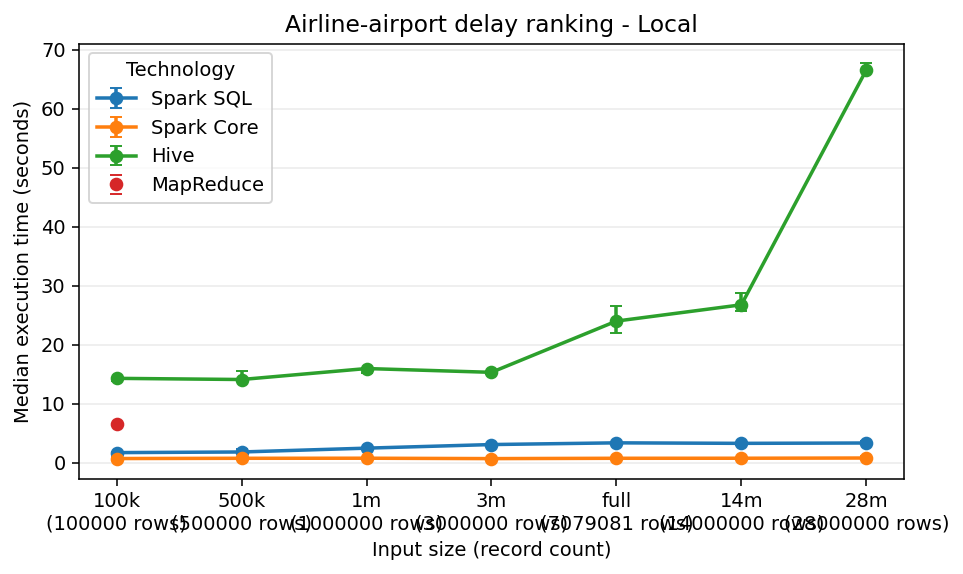
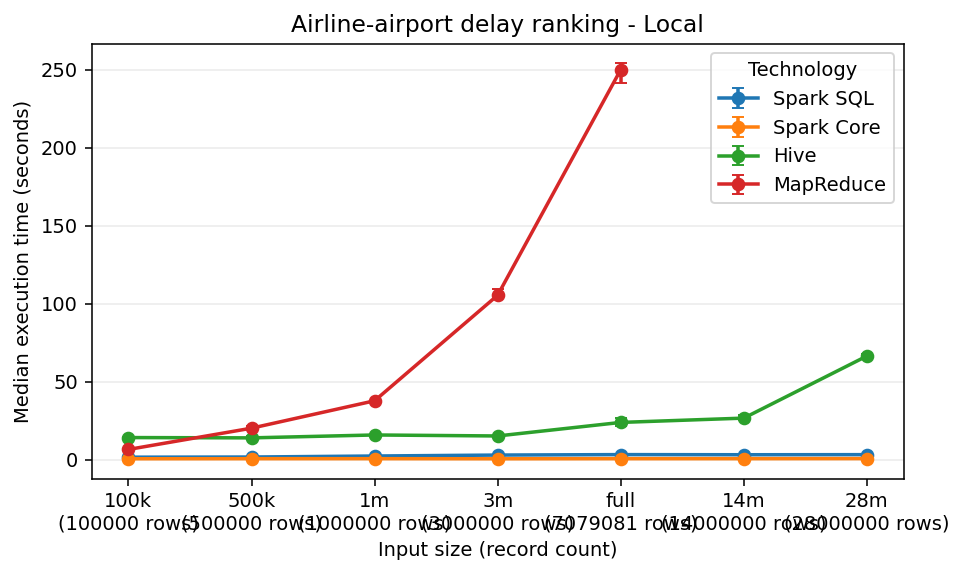
Expand MapReduce stretch benchmark evidence
Run MapReduce stretch benchmarks across 100k, 500k, 1m, 3m, and full inputs with three repetitions, regenerate report artifacts, and update documentation/report wording to keep MapReduce framed as optional stretch evidence outside the Spark SQL/Spark Core/Hive baseline.

diff --git a/report/draft_final_report.md b/report/draft_final_report.md
@@ -341,11 +341,11 @@ The delay reducer computes the same grouped counts, averages, and top-three
 cause ordering as Spark SQL. The ranking reducer groups by airport, aggregates
 airline statistics, computes the airport average departure delay, and applies
 Spark SQL `RANK()` semantics with null averages last. Validation passed against
-Spark SQL for the full prepared dataset; the separate benchmark smoke run uses
-the `100k` generated input.
+Spark SQL for the full prepared dataset; the separate benchmark campaign uses
+the `100k`, `500k`, `1m`, `3m`, and `full` inputs as optional stretch evidence.
 
 The supported runtime is Docker-local Hadoop Streaming, not YARN/HDFS.
-Benchmark smoke runs use isolated output roots under
+MapReduce benchmark runs use isolated output roots under
 `outputs/mapreduce/.benchmark_runs/`, leaving `outputs/mapreduce/` reserved for
 validated report-ready outputs.
 
@@ -416,8 +416,8 @@ The reporting pipeline computes median, mean, minimum, maximum, and standard
 deviation of duration for each environment/input/job/technology group.
 Single-run CSVs are still readable as `runs=1`, and fresh benchmark campaigns
 can be forced to one run for smoke checks with `BENCHMARK_FLAGS="--repetitions
-1"`. The opt-in MapReduce benchmark smoke lets the stretch evidence be
-included without slowing the required default benchmark matrix:
+1"`. The opt-in MapReduce stretch benchmark is reported separately from the
+required default benchmark matrix:
 
 | Environment | Inputs | Technologies | Jobs | Status |
 | --- | --- | --- | --- | --- |
@@ -426,11 +426,11 @@ included without slowing the required default benchmark matrix:
 | Docker standalone simulation | `100k`, `500k`, `1m` | Spark SQL, Spark Core, Hive | both jobs | 18/18 successful |
 | AWS EMR baseline cluster | `100k`, `500k`, `1m`, `3m`, `full`, `14m` | Spark SQL, Spark Core | both jobs | 24/24 successful |
 | AWS EMR larger cluster | `1m`, `full` | Spark SQL, Spark Core | both jobs | 8/8 successful |
-| Local stretch | `100k` | Hadoop Streaming MapReduce | both jobs | 2/2 successful |
+| Local stretch | `100k`, `500k`, `1m`, `3m`, `full` | Hadoop Streaming MapReduce | both jobs | 10/10 successful, 3 repetitions each |
 
 The local run ID is `20260521T153035251181Z`. The Docker standalone simulation
-run ID is `20260521T160042313560Z`. The MapReduce smoke run ID is
-`20260521T153912538439Z`. The local `14m` run ID is
+run ID is `20260521T160042313560Z`. The MapReduce stretch benchmark run ID is
+`20260522T182250129354Z`. The local `14m` run ID is
 `20260521T220744784794Z`. The canonical AWS EMR baseline run ID is
 `m4-emr-final-2`, and the limited larger-cluster comparison run ID is
 `m5-emr-3core-1m-full`. Some local and Docker campaigns are represented as
@@ -443,7 +443,7 @@ for `500k`, `3m`, and `14m`, and a separate hardened smoke record for the
 
 For compactness, the printed pivot below focuses on median duration for the
 three required technologies. The regenerated `report/tables/benchmark_pivot.*`
-artifacts also include the optional MapReduce smoke columns when present.
+artifacts also include the optional MapReduce stretch columns when present.
 
 | environment | input_label | records | job_name | Spark SQL median s | Spark Core median s | Hive median s |
 | --- | --- | --- | --- | --- | --- | --- |
@@ -1048,7 +1048,8 @@ numeric fields, rank values, and top-three cause labels/counts.
 | Validator | `scripts/validate_mapreduce_outputs.py` |
 | Runtime documentation | `docs/mapreduce_analyses.md` |
 
-The MapReduce benchmark smoke run on `100k` input completed both jobs
-successfully using isolated benchmark outputs. The benchmark rows are included
-in generated report tables when present, but missing MapReduce cells are not
-added to the required Spark/Hive/Spark Core benchmark status matrix.
+The MapReduce stretch benchmark completed `100k`, `500k`, `1m`, `3m`, and
+`full` inputs with three repetitions per input/job using isolated benchmark
+outputs. These rows are included in generated report tables when present, but
+missing MapReduce cells are not added to the required Spark/Hive/Spark Core
+benchmark status matrix.

diff --git a/report/tables/benchmark_pivot.md b/report/tables/benchmark_pivot.md
@@ -22,16 +22,16 @@
 | docker-simulation | 500k | 500000 | delay_by_airport_month | 25.606 | 7.256 | 28.206 |  |
 | docker-simulation | 1m | 1000000 | airline_airport_ranking | 5.869 | 3.044 | 10.094 |  |
 | docker-simulation | 1m | 1000000 | delay_by_airport_month | 14.541 | 3.673 | 16.797 |  |
-| local | 100k | 100000 | airline_airport_ranking | 1.744 | 0.74 | 14.322 | 6.551 |
-| local | 100k | 100000 | delay_by_airport_month | 7.966 | 1.002 | 19.841 | 7.49 |
-| local | 500k | 500000 | airline_airport_ranking | 1.853 | 0.783 | 14.125 |  |
-| local | 500k | 500000 | delay_by_airport_month | 8.675 | 1.122 | 21.005 |  |
-| local | 1m | 1000000 | airline_airport_ranking | 2.5 | 0.796 | 15.984 |  |
-| local | 1m | 1000000 | delay_by_airport_month | 12.181 | 1.195 | 22.411 |  |
-| local | 3m | 3000000 | airline_airport_ranking | 3.11 | 0.73 | 15.341 |  |
-| local | 3m | 3000000 | delay_by_airport_month | 13.09 | 1.126 | 25.069 |  |
-| local | full | 7079081 | airline_airport_ranking | 3.4 | 0.785 | 24.02 |  |
-| local | full | 7079081 | delay_by_airport_month | 12.997 | 1.221 | 35.005 |  |
+| local | 100k | 100000 | airline_airport_ranking | 1.744 | 0.74 | 14.322 | 6.708 |
+| local | 100k | 100000 | delay_by_airport_month | 7.966 | 1.002 | 19.841 | 7.644 |
+| local | 500k | 500000 | airline_airport_ranking | 1.853 | 0.783 | 14.125 | 20.328 |
+| local | 500k | 500000 | delay_by_airport_month | 8.675 | 1.122 | 21.005 | 23.3 |
+| local | 1m | 1000000 | airline_airport_ranking | 2.5 | 0.796 | 15.984 | 37.887 |
+| local | 1m | 1000000 | delay_by_airport_month | 12.181 | 1.195 | 22.411 | 40.762 |
+| local | 3m | 3000000 | airline_airport_ranking | 3.11 | 0.73 | 15.341 | 105.491 |
+| local | 3m | 3000000 | delay_by_airport_month | 13.09 | 1.126 | 25.069 | 116.11 |
+| local | full | 7079081 | airline_airport_ranking | 3.4 | 0.785 | 24.02 | 249.968 |
+| local | full | 7079081 | delay_by_airport_month | 12.997 | 1.221 | 35.005 | 267.284 |
 | local | 14m | 14000000 | airline_airport_ranking | 3.314 | 0.792 | 26.78 |  |
 | local | 14m | 14000000 | delay_by_airport_month | 11.868 | 1.223 | 41.112 |  |
 | local | 28m | 28000000 | airline_airport_ranking | 3.373 | 0.83 | 66.541 |  |

diff --git a/report/tables/benchmark_status.md b/report/tables/benchmark_status.md
@@ -51,35 +51,43 @@
 | docker-simulation | 1m | 1000000 | delay_by_airport_month | Spark Core | success | 3.829174 | 10206 |  | 20260522T161751426398Z | 2026-05-22T16:17:51.426398+00:00 | benchmark_20260522T161751426398Z.csv |
 | docker-simulation | 1m | 1000000 | delay_by_airport_month | Spark SQL | success | 14.540799 | 10206 |  | 20260522T161751426398Z | 2026-05-22T16:17:51.426398+00:00 | benchmark_20260522T161751426398Z.csv |
 | local | 100k | 100000 | airline_airport_ranking | Hive | success | 13.910368 | 1641 |  | 20260522T133525179005Z | 2026-05-22T13:35:25.179005+00:00 | benchmark_20260522T133525179005Z.csv |
-| local | 100k | 100000 | airline_airport_ranking | MapReduce | success | 6.550597 | 1641 |  | 20260521T153912538439Z | 2026-05-21T15:39:12.538439+00:00 | benchmark_20260521T153912538439Z.csv |
+| local | 100k | 100000 | airline_airport_ranking | MapReduce | success | 6.708246 | 1641 |  | 20260522T182250129354Z | 2026-05-22T18:22:50.129354+00:00 | benchmark_20260522T182250129354Z.csv |
 | local | 100k | 100000 | airline_airport_ranking | Spark Core | success | 0.960478 | 1641 |  | 20260522T133525179005Z | 2026-05-22T13:35:25.179005+00:00 | benchmark_20260522T133525179005Z.csv |
 | local | 100k | 100000 | airline_airport_ranking | Spark SQL | success | 1.74436 | 1641 |  | 20260522T133525179005Z | 2026-05-22T13:35:25.179005+00:00 | benchmark_20260522T133525179005Z.csv |
 | local | 100k | 100000 | delay_by_airport_month | Hive | success | 19.594788 | 6367 |  | 20260522T133525179005Z | 2026-05-22T13:35:25.179005+00:00 | benchmark_20260522T133525179005Z.csv |
-| local | 100k | 100000 | delay_by_airport_month | MapReduce | success | 7.490445 | 6367 |  | 20260521T153912538439Z | 2026-05-21T15:39:12.538439+00:00 | benchmark_20260521T153912538439Z.csv |
+| local | 100k | 100000 | delay_by_airport_month | MapReduce | success | 7.64389 | 6367 |  | 20260522T182250129354Z | 2026-05-22T18:22:50.129354+00:00 | benchmark_20260522T182250129354Z.csv |
 | local | 100k | 100000 | delay_by_airport_month | Spark Core | success | 1.35415 | 6367 |  | 20260522T133525179005Z | 2026-05-22T13:35:25.179005+00:00 | benchmark_20260522T133525179005Z.csv |
 | local | 100k | 100000 | delay_by_airport_month | Spark SQL | success | 7.927306 | 6367 |  | 20260522T133525179005Z | 2026-05-22T13:35:25.179005+00:00 | benchmark_20260522T133525179005Z.csv |
 | local | 500k | 500000 | airline_airport_ranking | Hive | success | 15.56281 | 1707 |  | 20260522T133525179005Z | 2026-05-22T13:35:25.179005+00:00 | benchmark_20260522T133525179005Z.csv |
+| local | 500k | 500000 | airline_airport_ranking | MapReduce | success | 20.327809 | 1707 |  | 20260522T182250129354Z | 2026-05-22T18:22:50.129354+00:00 | benchmark_20260522T182250129354Z.csv |
 | local | 500k | 500000 | airline_airport_ranking | Spark Core | success | 0.689851 | 1707 |  | 20260522T133525179005Z | 2026-05-22T13:35:25.179005+00:00 | benchmark_20260522T133525179005Z.csv |
 | local | 500k | 500000 | airline_airport_ranking | Spark SQL | success | 1.852542 | 1707 |  | 20260522T133525179005Z | 2026-05-22T13:35:25.179005+00:00 | benchmark_20260522T133525179005Z.csv |
 | local | 500k | 500000 | delay_by_airport_month | Hive | success | 21.961934 | 9265 |  | 20260522T133525179005Z | 2026-05-22T13:35:25.179005+00:00 | benchmark_20260522T133525179005Z.csv |
+| local | 500k | 500000 | delay_by_airport_month | MapReduce | success | 23.256457 | 9265 |  | 20260522T182250129354Z | 2026-05-22T18:22:50.129354+00:00 | benchmark_20260522T182250129354Z.csv |
 | local | 500k | 500000 | delay_by_airport_month | Spark Core | success | 1.12204 | 9265 |  | 20260522T133525179005Z | 2026-05-22T13:35:25.179005+00:00 | benchmark_20260522T133525179005Z.csv |
 | local | 500k | 500000 | delay_by_airport_month | Spark SQL | success | 8.674959 | 9265 |  | 20260522T133525179005Z | 2026-05-22T13:35:25.179005+00:00 | benchmark_20260522T133525179005Z.csv |
 | local | 1m | 1000000 | airline_airport_ranking | Hive | success | 15.983799 | 1723 |  | 20260522T133525179005Z | 2026-05-22T13:35:25.179005+00:00 | benchmark_20260522T133525179005Z.csv |
+| local | 1m | 1000000 | airline_airport_ranking | MapReduce | success | 37.886627 | 1723 |  | 20260522T182250129354Z | 2026-05-22T18:22:50.129354+00:00 | benchmark_20260522T182250129354Z.csv |
 | local | 1m | 1000000 | airline_airport_ranking | Spark Core | success | 0.78 | 1723 |  | 20260522T133525179005Z | 2026-05-22T13:35:25.179005+00:00 | benchmark_20260522T133525179005Z.csv |
 | local | 1m | 1000000 | airline_airport_ranking | Spark SQL | success | 2.500201 | 1723 |  | 20260522T133525179005Z | 2026-05-22T13:35:25.179005+00:00 | benchmark_20260522T133525179005Z.csv |
 | local | 1m | 1000000 | delay_by_airport_month | Hive | success | 22.411059 | 10206 |  | 20260522T133525179005Z | 2026-05-22T13:35:25.179005+00:00 | benchmark_20260522T133525179005Z.csv |
+| local | 1m | 1000000 | delay_by_airport_month | MapReduce | success | 38.838454 | 10206 |  | 20260522T182250129354Z | 2026-05-22T18:22:50.129354+00:00 | benchmark_20260522T182250129354Z.csv |
 | local | 1m | 1000000 | delay_by_airport_month | Spark Core | success | 1.172473 | 10206 |  | 20260522T133525179005Z | 2026-05-22T13:35:25.179005+00:00 | benchmark_20260522T133525179005Z.csv |
 | local | 1m | 1000000 | delay_by_airport_month | Spark SQL | success | 11.704785 | 10206 |  | 20260522T133525179005Z | 2026-05-22T13:35:25.179005+00:00 | benchmark_20260522T133525179005Z.csv |
 | local | 3m | 3000000 | airline_airport_ranking | Hive | success | 15.004577 | 1735 |  | 20260522T133525179005Z | 2026-05-22T13:35:25.179005+00:00 | benchmark_20260522T133525179005Z.csv |
+| local | 3m | 3000000 | airline_airport_ranking | MapReduce | success | 105.490861 | 1735 |  | 20260522T182250129354Z | 2026-05-22T18:22:50.129354+00:00 | benchmark_20260522T182250129354Z.csv |
 | local | 3m | 3000000 | airline_airport_ranking | Spark Core | success | 0.729875 | 1735 |  | 20260522T133525179005Z | 2026-05-22T13:35:25.179005+00:00 | benchmark_20260522T133525179005Z.csv |
 | local | 3m | 3000000 | airline_airport_ranking | Spark SQL | success | 2.849642 | 1735 |  | 20260522T133525179005Z | 2026-05-22T13:35:25.179005+00:00 | benchmark_20260522T133525179005Z.csv |
 | local | 3m | 3000000 | delay_by_airport_month | Hive | success | 25.068832 | 11417 |  | 20260522T133525179005Z | 2026-05-22T13:35:25.179005+00:00 | benchmark_20260522T133525179005Z.csv |
+| local | 3m | 3000000 | delay_by_airport_month | MapReduce | success | 116.109869 | 11417 |  | 20260522T182250129354Z | 2026-05-22T18:22:50.129354+00:00 | benchmark_20260522T182250129354Z.csv |
 | local | 3m | 3000000 | delay_by_airport_month | Spark Core | success | 1.191845 | 11417 |  | 20260522T133525179005Z | 2026-05-22T13:35:25.179005+00:00 | benchmark_20260522T133525179005Z.csv |
 | local | 3m | 3000000 | delay_by_airport_month | Spark SQL | success | 13.057866 | 11417 |  | 20260522T133525179005Z | 2026-05-22T13:35:25.179005+00:00 | benchmark_20260522T133525179005Z.csv |
 | local | full | 7079081 | airline_airport_ranking | Hive | success | 26.632626 | 1738 |  | 20260522T133525179005Z | 2026-05-22T13:35:25.179005+00:00 | benchmark_20260522T133525179005Z.csv |
+| local | full | 7079081 | airline_airport_ranking | MapReduce | success | 253.987902 | 1738 |  | 20260522T182250129354Z | 2026-05-22T18:22:50.129354+00:00 | benchmark_20260522T182250129354Z.csv |
 | local | full | 7079081 | airline_airport_ranking | Spark Core | success | 0.789088 | 1738 |  | 20260522T133525179005Z | 2026-05-22T13:35:25.179005+00:00 | benchmark_20260522T133525179005Z.csv |
 | local | full | 7079081 | airline_airport_ranking | Spark SQL | success | 3.39957 | 1738 |  | 20260522T133525179005Z | 2026-05-22T13:35:25.179005+00:00 | benchmark_20260522T133525179005Z.csv |
 | local | full | 7079081 | delay_by_airport_month | Hive | success | 32.788066 | 11902 |  | 20260522T133525179005Z | 2026-05-22T13:35:25.179005+00:00 | benchmark_20260522T133525179005Z.csv |
+| local | full | 7079081 | delay_by_airport_month | MapReduce | success | 265.23782 | 11902 |  | 20260522T182250129354Z | 2026-05-22T18:22:50.129354+00:00 | benchmark_20260522T182250129354Z.csv |
 | local | full | 7079081 | delay_by_airport_month | Spark Core | success | 1.228729 | 11902 |  | 20260522T133525179005Z | 2026-05-22T13:35:25.179005+00:00 | benchmark_20260522T133525179005Z.csv |
 | local | full | 7079081 | delay_by_airport_month | Spark SQL | success | 12.997052 | 11902 |  | 20260522T133525179005Z | 2026-05-22T13:35:25.179005+00:00 | benchmark_20260522T133525179005Z.csv |
 | local | 14m | 14000000 | airline_airport_ranking | Hive | success | 25.701671 | 1738 |  | 20260522T142052973274Z | 2026-05-22T14:20:52.973274+00:00 | benchmark_20260522T142052973274Z.csv |

diff --git a/report/tables/benchmark_summary.md b/report/tables/benchmark_summary.md
@@ -51,35 +51,43 @@
 | docker-simulation | 1m | 1000000 | delay_by_airport_month | Spark Core | 3 | 3.673 | 3.653 | 3.457 | 3.829 | 0.187 | 10206 | 20260522T161751426398Z | 2026-05-22T16:17:51.426398+00:00 |
 | docker-simulation | 1m | 1000000 | delay_by_airport_month | Spark SQL | 3 | 14.541 | 14.559 | 14.242 | 14.895 | 0.327 | 10206 | 20260522T161751426398Z | 2026-05-22T16:17:51.426398+00:00 |
 | local | 100k | 100000 | airline_airport_ranking | Hive | 3 | 14.322 | 14.207 | 13.91 | 14.389 | 0.259 | 1641 | 20260522T133525179005Z | 2026-05-22T13:35:25.179005+00:00 |
-| local | 100k | 100000 | airline_airport_ranking | MapReduce | 1 | 6.551 | 6.551 | 6.551 | 6.551 |  | 1641 | 20260521T153912538439Z | 2026-05-21T15:39:12.538439+00:00 |
+| local | 100k | 100000 | airline_airport_ranking | MapReduce | 3 | 6.708 | 6.705 | 6.693 | 6.713 | 0.01 | 1641 | 20260522T182250129354Z | 2026-05-22T18:22:50.129354+00:00 |
 | local | 100k | 100000 | airline_airport_ranking | Spark Core | 3 | 0.74 | 0.807 | 0.719 | 0.96 | 0.134 | 1641 | 20260522T133525179005Z | 2026-05-22T13:35:25.179005+00:00 |
 | local | 100k | 100000 | airline_airport_ranking | Spark SQL | 3 | 1.744 | 1.702 | 1.556 | 1.805 | 0.13 | 1641 | 20260522T133525179005Z | 2026-05-22T13:35:25.179005+00:00 |
 | local | 100k | 100000 | delay_by_airport_month | Hive | 3 | 19.841 | 20.207 | 19.595 | 21.187 | 0.857 | 6367 | 20260522T133525179005Z | 2026-05-22T13:35:25.179005+00:00 |
-| local | 100k | 100000 | delay_by_airport_month | MapReduce | 1 | 7.49 | 7.49 | 7.49 | 7.49 |  | 6367 | 20260521T153912538439Z | 2026-05-21T15:39:12.538439+00:00 |
+| local | 100k | 100000 | delay_by_airport_month | MapReduce | 3 | 7.644 | 7.306 | 6.623 | 7.65 | 0.591 | 6367 | 20260522T182250129354Z | 2026-05-22T18:22:50.129354+00:00 |
 | local | 100k | 100000 | delay_by_airport_month | Spark Core | 3 | 1.002 | 1.117 | 0.996 | 1.354 | 0.205 | 6367 | 20260522T133525179005Z | 2026-05-22T13:35:25.179005+00:00 |
 | local | 100k | 100000 | delay_by_airport_month | Spark SQL | 3 | 7.966 | 8.011 | 7.927 | 8.139 | 0.113 | 6367 | 20260522T133525179005Z | 2026-05-22T13:35:25.179005+00:00 |
 | local | 500k | 500000 | airline_airport_ranking | Hive | 3 | 14.125 | 14.602 | 14.117 | 15.563 | 0.832 | 1707 | 20260522T133525179005Z | 2026-05-22T13:35:25.179005+00:00 |
+| local | 500k | 500000 | airline_airport_ranking | MapReduce | 3 | 20.328 | 20.366 | 19.337 | 21.433 | 1.048 | 1707 | 20260522T182250129354Z | 2026-05-22T18:22:50.129354+00:00 |
 | local | 500k | 500000 | airline_airport_ranking | Spark Core | 3 | 0.783 | 0.775 | 0.69 | 0.85 | 0.081 | 1707 | 20260522T133525179005Z | 2026-05-22T13:35:25.179005+00:00 |
 | local | 500k | 500000 | airline_airport_ranking | Spark SQL | 3 | 1.853 | 1.99 | 1.76 | 2.359 | 0.322 | 1707 | 20260522T133525179005Z | 2026-05-22T13:35:25.179005+00:00 |
 | local | 500k | 500000 | delay_by_airport_month | Hive | 3 | 21.005 | 21.178 | 20.566 | 21.962 | 0.714 | 9265 | 20260522T133525179005Z | 2026-05-22T13:35:25.179005+00:00 |
+| local | 500k | 500000 | delay_by_airport_month | MapReduce | 3 | 23.3 | 23.286 | 23.256 | 23.302 | 0.026 | 9265 | 20260522T182250129354Z | 2026-05-22T18:22:50.129354+00:00 |
 | local | 500k | 500000 | delay_by_airport_month | Spark Core | 3 | 1.122 | 1.166 | 1.059 | 1.317 | 0.134 | 9265 | 20260522T133525179005Z | 2026-05-22T13:35:25.179005+00:00 |
 | local | 500k | 500000 | delay_by_airport_month | Spark SQL | 3 | 8.675 | 8.604 | 8.432 | 8.704 | 0.15 | 9265 | 20260522T133525179005Z | 2026-05-22T13:35:25.179005+00:00 |
 | local | 1m | 1000000 | airline_airport_ranking | Hive | 3 | 15.984 | 15.761 | 15.291 | 16.007 | 0.407 | 1723 | 20260522T133525179005Z | 2026-05-22T13:35:25.179005+00:00 |
+| local | 1m | 1000000 | airline_airport_ranking | MapReduce | 3 | 37.887 | 37.606 | 36.916 | 38.016 | 0.601 | 1723 | 20260522T182250129354Z | 2026-05-22T18:22:50.129354+00:00 |
 | local | 1m | 1000000 | airline_airport_ranking | Spark Core | 3 | 0.796 | 0.814 | 0.78 | 0.867 | 0.046 | 1723 | 20260522T133525179005Z | 2026-05-22T13:35:25.179005+00:00 |
 | local | 1m | 1000000 | airline_airport_ranking | Spark SQL | 3 | 2.5 | 2.483 | 2.406 | 2.542 | 0.07 | 1723 | 20260522T133525179005Z | 2026-05-22T13:35:25.179005+00:00 |
 | local | 1m | 1000000 | delay_by_airport_month | Hive | 3 | 22.411 | 22.38 | 22.087 | 22.642 | 0.279 | 10206 | 20260522T133525179005Z | 2026-05-22T13:35:25.179005+00:00 |
+| local | 1m | 1000000 | delay_by_airport_month | MapReduce | 3 | 40.762 | 40.156 | 38.838 | 40.867 | 1.142 | 10206 | 20260522T182250129354Z | 2026-05-22T18:22:50.129354+00:00 |
 | local | 1m | 1000000 | delay_by_airport_month | Spark Core | 3 | 1.195 | 1.211 | 1.172 | 1.265 | 0.048 | 10206 | 20260522T133525179005Z | 2026-05-22T13:35:25.179005+00:00 |
 | local | 1m | 1000000 | delay_by_airport_month | Spark SQL | 3 | 12.181 | 12.249 | 11.705 | 12.861 | 0.581 | 10206 | 20260522T133525179005Z | 2026-05-22T13:35:25.179005+00:00 |
 | local | 3m | 3000000 | airline_airport_ranking | Hive | 3 | 15.341 | 15.246 | 15.005 | 15.391 | 0.21 | 1735 | 20260522T133525179005Z | 2026-05-22T13:35:25.179005+00:00 |
+| local | 3m | 3000000 | airline_airport_ranking | MapReduce | 3 | 105.491 | 106.612 | 105.03 | 109.316 | 2.353 | 1735 | 20260522T182250129354Z | 2026-05-22T18:22:50.129354+00:00 |
 | local | 3m | 3000000 | airline_airport_ranking | Spark Core | 3 | 0.73 | 0.753 | 0.729 | 0.799 | 0.04 | 1735 | 20260522T133525179005Z | 2026-05-22T13:35:25.179005+00:00 |
 | local | 3m | 3000000 | airline_airport_ranking | Spark SQL | 3 | 3.11 | 3.065 | 2.85 | 3.237 | 0.197 | 1735 | 20260522T133525179005Z | 2026-05-22T13:35:25.179005+00:00 |
 | local | 3m | 3000000 | delay_by_airport_month | Hive | 3 | 25.069 | 25.134 | 24.998 | 25.335 | 0.178 | 11417 | 20260522T133525179005Z | 2026-05-22T13:35:25.179005+00:00 |
+| local | 3m | 3000000 | delay_by_airport_month | MapReduce | 3 | 116.11 | 114.727 | 110.95 | 117.121 | 3.31 | 11417 | 20260522T182250129354Z | 2026-05-22T18:22:50.129354+00:00 |
 | local | 3m | 3000000 | delay_by_airport_month | Spark Core | 3 | 1.126 | 1.14 | 1.101 | 1.192 | 0.047 | 11417 | 20260522T133525179005Z | 2026-05-22T13:35:25.179005+00:00 |
 | local | 3m | 3000000 | delay_by_airport_month | Spark SQL | 3 | 13.09 | 13.406 | 13.058 | 14.07 | 0.575 | 11417 | 20260522T133525179005Z | 2026-05-22T13:35:25.179005+00:00 |
 | local | full | 7079081 | airline_airport_ranking | Hive | 3 | 24.02 | 24.221 | 22.011 | 26.633 | 2.317 | 1738 | 20260522T133525179005Z | 2026-05-22T13:35:25.179005+00:00 |
+| local | full | 7079081 | airline_airport_ranking | MapReduce | 3 | 249.968 | 248.431 | 241.338 | 253.988 | 6.464 | 1738 | 20260522T182250129354Z | 2026-05-22T18:22:50.129354+00:00 |
 | local | full | 7079081 | airline_airport_ranking | Spark Core | 3 | 0.785 | 0.776 | 0.753 | 0.789 | 0.02 | 1738 | 20260522T133525179005Z | 2026-05-22T13:35:25.179005+00:00 |
 | local | full | 7079081 | airline_airport_ranking | Spark SQL | 3 | 3.4 | 3.411 | 3.301 | 3.532 | 0.116 | 1738 | 20260522T133525179005Z | 2026-05-22T13:35:25.179005+00:00 |
 | local | full | 7079081 | delay_by_airport_month | Hive | 3 | 35.005 | 34.473 | 32.788 | 35.625 | 1.491 | 11902 | 20260522T133525179005Z | 2026-05-22T13:35:25.179005+00:00 |
+| local | full | 7079081 | delay_by_airport_month | MapReduce | 3 | 267.284 | 267.172 | 265.238 | 268.993 | 1.88 | 11902 | 20260522T182250129354Z | 2026-05-22T18:22:50.129354+00:00 |
 | local | full | 7079081 | delay_by_airport_month | Spark Core | 3 | 1.221 | 1.208 | 1.176 | 1.229 | 0.029 | 11902 | 20260522T133525179005Z | 2026-05-22T13:35:25.179005+00:00 |
 | local | full | 7079081 | delay_by_airport_month | Spark SQL | 3 | 12.997 | 13.06 | 12.989 | 13.193 | 0.116 | 11902 | 20260522T133525179005Z | 2026-05-22T13:35:25.179005+00:00 |
 | local | 14m | 14000000 | airline_airport_ranking | Hive | 3 | 26.78 | 27.099 | 25.702 | 28.815 | 1.581 | 1738 | 20260522T142052973274Z | 2026-05-22T14:20:52.973274+00:00 |

diff --git a/report/tables/rows_per_second.md b/report/tables/rows_per_second.md
@@ -51,35 +51,43 @@
 | docker-simulation | 1m | 1000000 | delay_by_airport_month | Spark Core | 3.673 | 272268.278 |
 | docker-simulation | 1m | 1000000 | delay_by_airport_month | Spark SQL | 14.541 | 68772.012 |
 | local | 100k | 100000 | airline_airport_ranking | Hive | 14.322 | 6982.271 |
-| local | 100k | 100000 | airline_airport_ranking | MapReduce | 6.551 | 15265.784 |
+| local | 100k | 100000 | airline_airport_ranking | MapReduce | 6.708 | 14907.026 |
 | local | 100k | 100000 | airline_airport_ranking | Spark Core | 0.74 | 135131.483 |
 | local | 100k | 100000 | airline_airport_ranking | Spark SQL | 1.744 | 57327.616 |
 | local | 100k | 100000 | delay_by_airport_month | Hive | 19.841 | 5040.064 |
-| local | 100k | 100000 | delay_by_airport_month | MapReduce | 7.49 | 13350.342 |
+| local | 100k | 100000 | delay_by_airport_month | MapReduce | 7.644 | 13082.344 |
 | local | 100k | 100000 | delay_by_airport_month | Spark Core | 1.002 | 99844.941 |
 | local | 100k | 100000 | delay_by_airport_month | Spark SQL | 7.966 | 12553.587 |
 | local | 500k | 500000 | airline_airport_ranking | Hive | 14.125 | 35397.165 |
+| local | 500k | 500000 | airline_airport_ranking | MapReduce | 20.328 | 24596.847 |
 | local | 500k | 500000 | airline_airport_ranking | Spark Core | 0.783 | 638197.933 |
 | local | 500k | 500000 | airline_airport_ranking | Spark SQL | 1.853 | 269899.414 |
 | local | 500k | 500000 | delay_by_airport_month | Hive | 21.005 | 23803.363 |
+| local | 500k | 500000 | delay_by_airport_month | MapReduce | 23.3 | 21459.618 |
 | local | 500k | 500000 | delay_by_airport_month | Spark Core | 1.122 | 445616.912 |
 | local | 500k | 500000 | delay_by_airport_month | Spark SQL | 8.675 | 57637.16 |
 | local | 1m | 1000000 | airline_airport_ranking | Hive | 15.984 | 62563.349 |
+| local | 1m | 1000000 | airline_airport_ranking | MapReduce | 37.887 | 26394.538 |
 | local | 1m | 1000000 | airline_airport_ranking | Spark Core | 0.796 | 1256775.591 |
 | local | 1m | 1000000 | airline_airport_ranking | Spark SQL | 2.5 | 399967.843 |
 | local | 1m | 1000000 | delay_by_airport_month | Hive | 22.411 | 44620.828 |
+| local | 1m | 1000000 | delay_by_airport_month | MapReduce | 40.762 | 24532.643 |
 | local | 1m | 1000000 | delay_by_airport_month | Spark Core | 1.195 | 836591.859 |
 | local | 1m | 1000000 | delay_by_airport_month | Spark SQL | 12.181 | 82092.815 |
 | local | 3m | 3000000 | airline_airport_ranking | Hive | 15.341 | 195548.125 |
+| local | 3m | 3000000 | airline_airport_ranking | MapReduce | 105.491 | 28438.482 |
 | local | 3m | 3000000 | airline_airport_ranking | Spark Core | 0.73 | 4110292.858 |
 | local | 3m | 3000000 | airline_airport_ranking | Spark SQL | 3.11 | 964568.815 |
 | local | 3m | 3000000 | delay_by_airport_month | Hive | 25.069 | 119670.514 |
+| local | 3m | 3000000 | delay_by_airport_month | MapReduce | 116.11 | 25837.597 |
 | local | 3m | 3000000 | delay_by_airport_month | Spark Core | 1.126 | 2663636.041 |
 | local | 3m | 3000000 | delay_by_airport_month | Spark SQL | 13.09 | 229174.003 |
 | local | full | 7079081 | airline_airport_ranking | Hive | 24.02 | 294711.67 |
+| local | full | 7079081 | airline_airport_ranking | MapReduce | 249.968 | 28319.897 |
 | local | full | 7079081 | airline_airport_ranking | Spark Core | 0.785 | 9016949.735 |
 | local | full | 7079081 | airline_airport_ranking | Spark SQL | 3.4 | 2082346.003 |
 | local | full | 7079081 | delay_by_airport_month | Hive | 35.005 | 202231.85 |
+| local | full | 7079081 | delay_by_airport_month | MapReduce | 267.284 | 26485.192 |
 | local | full | 7079081 | delay_by_airport_month | Spark Core | 1.221 | 5797103.692 |
 | local | full | 7079081 | delay_by_airport_month | Spark SQL | 12.997 | 544668.206 |
 | local | 14m | 14000000 | airline_airport_ranking | Hive | 26.78 | 522782.331 |

diff --git a/report/tables/scalability_ratios.md b/report/tables/scalability_ratios.md
@@ -49,6 +49,11 @@
 | local | full | 7079081 | airline_airport_ranking | Hive | 1.677 | 70.791 | 42.209 |
 | local | 14m | 14000000 | airline_airport_ranking | Hive | 1.87 | 140 | 74.873 |
 | local | 28m | 28000000 | airline_airport_ranking | Hive | 4.646 | 280 | 60.266 |
+| local | 100k | 100000 | airline_airport_ranking | MapReduce | 1 | 1 | 1 |
+| local | 500k | 500000 | airline_airport_ranking | MapReduce | 3.03 | 5 | 1.65 |
+| local | 1m | 1000000 | airline_airport_ranking | MapReduce | 5.648 | 10 | 1.771 |
+| local | 3m | 3000000 | airline_airport_ranking | MapReduce | 15.726 | 30 | 1.908 |
+| local | full | 7079081 | airline_airport_ranking | MapReduce | 37.263 | 70.791 | 1.9 |
 | local | 100k | 100000 | airline_airport_ranking | Spark Core | 1 | 1 | 1 |
 | local | 500k | 500000 | airline_airport_ranking | Spark Core | 1.059 | 5 | 4.723 |
 | local | 1m | 1000000 | airline_airport_ranking | Spark Core | 1.075 | 10 | 9.3 |
@@ -70,6 +75,11 @@
 | local | full | 7079081 | delay_by_airport_month | Hive | 1.764 | 70.791 | 40.125 |
 | local | 14m | 14000000 | delay_by_airport_month | Hive | 2.072 | 140 | 67.566 |
 | local | 28m | 28000000 | delay_by_airport_month | Hive | 5.104 | 280 | 54.861 |
+| local | 100k | 100000 | delay_by_airport_month | MapReduce | 1 | 1 | 1 |
+| local | 500k | 500000 | delay_by_airport_month | MapReduce | 3.048 | 5 | 1.64 |
+| local | 1m | 1000000 | delay_by_airport_month | MapReduce | 5.333 | 10 | 1.875 |
+| local | 3m | 3000000 | delay_by_airport_month | MapReduce | 15.19 | 30 | 1.975 |
+| local | full | 7079081 | delay_by_airport_month | MapReduce | 34.967 | 70.791 | 2.024 |
 | local | 100k | 100000 | delay_by_airport_month | Spark Core | 1 | 1 | 1 |
 | local | 500k | 500000 | delay_by_airport_month | Spark Core | 1.12 | 5 | 4.463 |
 | local | 1m | 1000000 | delay_by_airport_month | Spark Core | 1.193 | 10 | 8.379 |

diff --git a/docs/mapreduce_analyses.md b/docs/mapreduce_analyses.md
@@ -96,10 +96,11 @@ benchmark metadata.
 
 ## Benchmarking
 
-Run an opt-in MapReduce benchmark smoke with:
+Run the opt-in MapReduce stretch benchmark with three repetitions on the local
+input ladder:
 
 ```powershell
-make benchmark-mapreduce-local BENCHMARK_FLAGS="--input-label 100k"
+make benchmark-mapreduce-local BENCHMARK_FLAGS="--input-label 100k --input-label 500k --input-label 1m --input-label 3m --input-label full --repetitions 3"
 ```
 
 The default `make benchmark-local` matrix intentionally remains limited to
@@ -107,7 +108,7 @@ Spark SQL, Spark Core, and Hive. MapReduce benchmark rows are included in chart
 and table generation when present, without adding missing MapReduce cells to
 the core benchmark-status matrix.
 
-Benchmark smoke runs write isolated outputs under:
+MapReduce benchmark runs write isolated outputs under:
 
 ```text
 outputs/mapreduce/.benchmark_runs/<run_id>/<input_label>/

diff --git a/docs/benchmarking.md b/docs/benchmarking.md
@@ -57,10 +57,10 @@ Run Docker standalone simulation:
 make benchmark-docker-simulation
 ```
 
-Run the optional MapReduce smoke benchmark:
+Run the optional MapReduce stretch benchmark:
 
 ```powershell
-make benchmark-mapreduce-local BENCHMARK_FLAGS="--input-label 100k --repetitions 1"
+make benchmark-mapreduce-local BENCHMARK_FLAGS="--input-label 100k --input-label 500k --input-label 1m --input-label 3m --input-label full --repetitions 3"
 ```
 
 Useful flags:

diff --git a/report/tables/environment_summary.md b/report/tables/environment_summary.md
@@ -1,6 +1,6 @@
 | category | item | value | source |
 | --- | --- | --- | --- |
-| campaign | summary_generated_at_utc | 2026-05-22T16:56:10.187214+00:00 | script timestamp |
+| campaign | summary_generated_at_utc | 2026-05-22T19:10:13.057162+00:00 | script timestamp |
 | host | os | Windows-11-10.0.26200-SP0 | platform.platform |
 | host | python_executable | C:\Users\lucap\Documents\VSC Repository\flight-delay-big-data-analysis\.venv\Scripts\python.exe | sys.executable |
 | host | python_version | 3.12.2 | platform.python_version |
@@ -9,7 +9,7 @@
 | host | logical_cores | 16 | psutil |
 | host | ram_bytes | 33598853120 | psutil |
 | host | project_drive_total_bytes | 957397069824 | psutil.disk_usage |
-| host | project_drive_free_bytes | 533367734272 | psutil.disk_usage |
+| host | project_drive_free_bytes | 538874912768 | psutil.disk_usage |
 | host | windows_cpu_model | AMD Ryzen AI 7 350 w/ Radeon 860M | Win32_Processor |
 | host | windows_os_detail | Microsoft Windows 11 Home 10.0.26200 build 26200 64-bit | Win32_OperatingSystem |
 | host | disk_type | WD PC SN5000S SDEPMSJ-1T00-1101; media=SSD; bus=NVMe; size=1024209543168 | Get-PhysicalDisk |